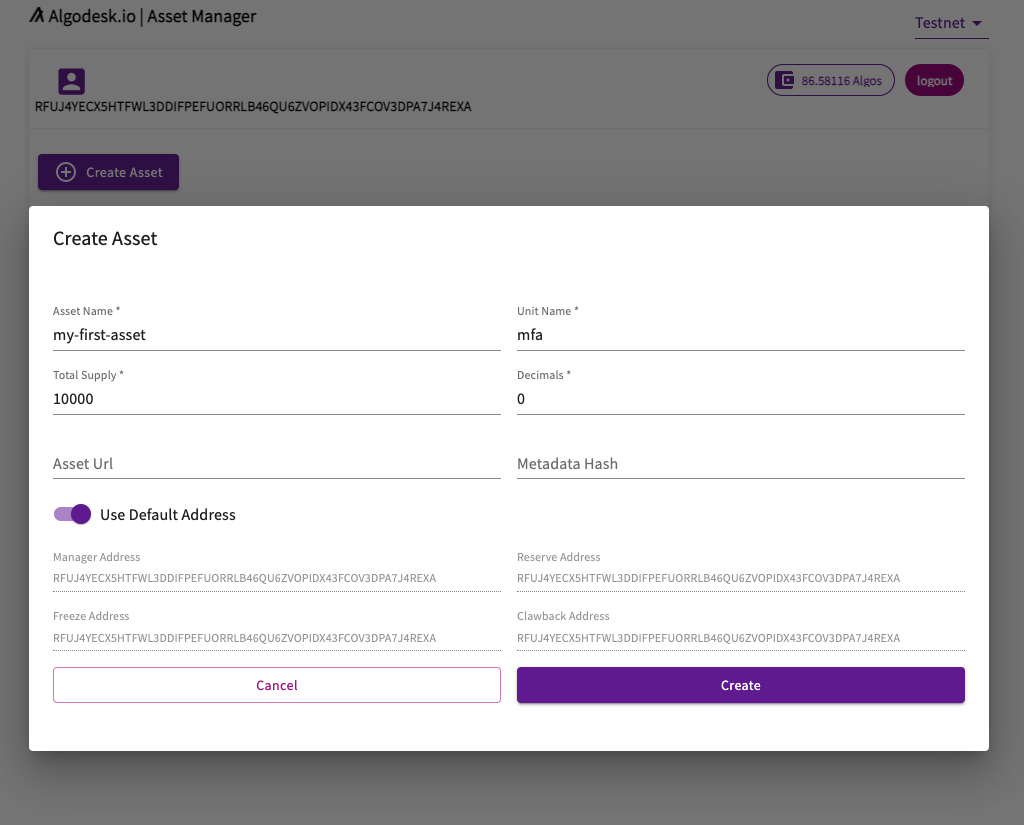
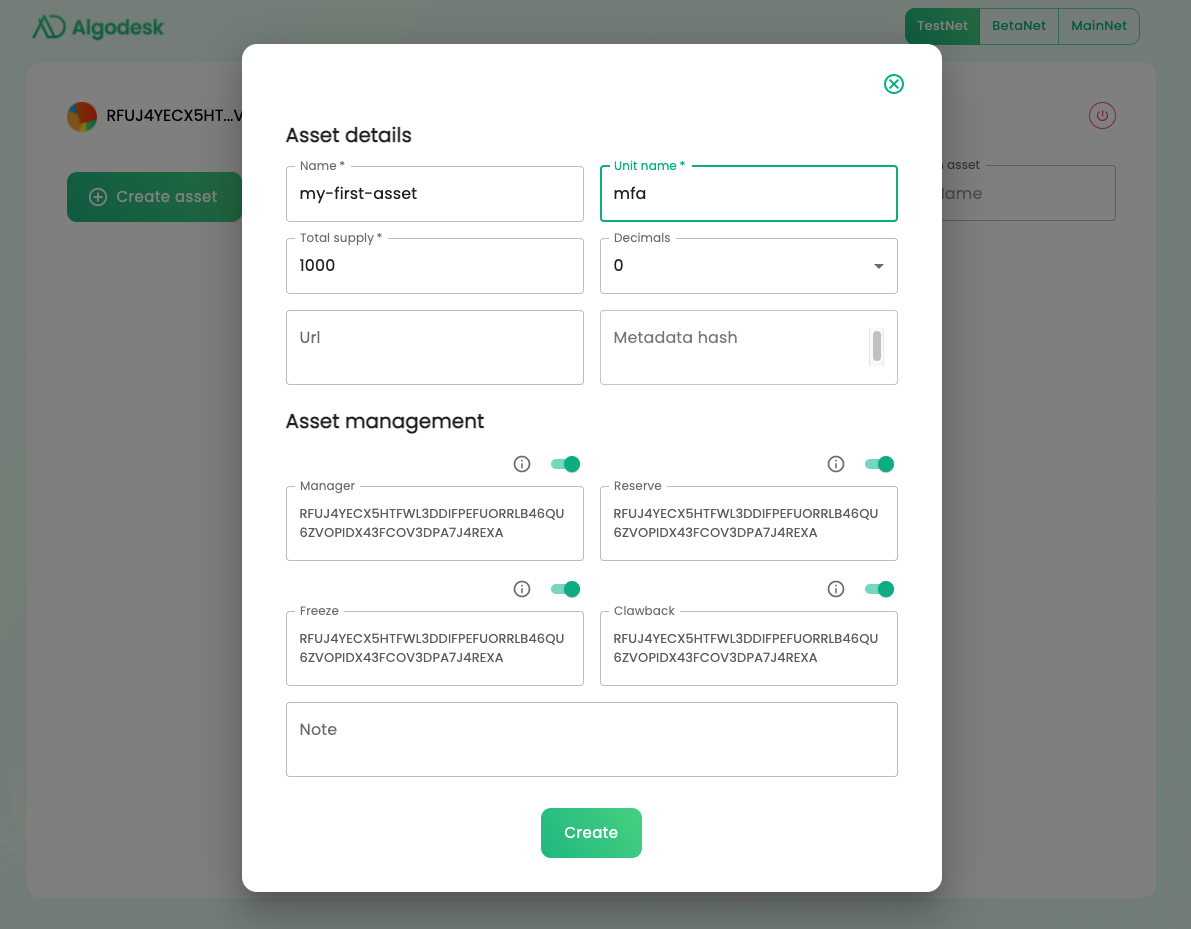
Many updates
* dispenser now sends 10 Algos instead of 100
* algoexplorer.io replaced by PureStake API because algoexplorer.io
is deprecating some endpoints used in documentation
* use the new terminology "smart signatures" instead of "stateless smart contracts"
* add information about smart contracts
* recommend AlgoDEA on PyCharm
* fix links to new documentation

diff --git a/step5.teal.py b/step5.teal.py
@@ -5,7 +5,7 @@ from pyteal import *
 # Address of the seller of the asset
 seller = Addr("4O6BRAPVLX5ID23AZWV33TICD35TI6JWOHXVLPGO4VRJATO6MZZQRKC7RI")
 asset_id = 14035004  # ID of the official buildweb3 asset
-asset_price = 42000000  # price of 1 asset = 42 Algos
+asset_price = 4200000  # price of 1 asset = 4.2 Algos
 
 
 def smart_contract(tmpl_seller=seller,

diff --git a/README.md b/README.md
@@ -10,7 +10,7 @@ In this homework, you will learn:
 1. how to create your first Algorand accounts.
 2. how to create and distribute your first asset or token on the Algorand blockchain.
 3. how to trade your token "atomically" without any third party.
-4. how to get the official "buildweb3" asset for just 42 Algos, by using your first stateless smart contract.
+4. how to get the official "buildweb3" asset for just 4.2 Algos, by using your first smart signature (aka stateless smart contract).
 
 The first two goals require *no programming knowledge* and can be done 100% online without installing anything on your computer!
 If you are interested, just skip Step 0 and do Steps 1, 2, and 3.
@@ -19,7 +19,7 @@ Sections "Background" and "Going Further" are not mandatory to complete the home
 
 *Warning*: All the homework is meant to be done on TestNet, where coins (called the Algos) are fake. When switching to MainNet, accounts store real cryptocurrency and proper security of key storage and management needs to be taken into consideration.
 
-*Note*: The answers in [form.example.md](form.example.md) would be valid answers of the homework and you can search for the various accounts and transaction IDs on the block explorer of your choice: [AlgoExplorer](https://testnet.algoexplorer.io) or [GoalSeeker](https://goalseeker.purestake.io/algorand/testnet).
+*Note*: The answers in [form.example.md](form.example.md) would be valid answers of (a slightly earlier version of) the homework and you can search for the various accounts and transaction IDs on the block explorer of your choice: [AlgoExplorer](https://testnet.algoexplorer.io) or [GoalSeeker](https://goalseeker.purestake.io/algorand/testnet). Note that this homework was recently changed and the answers in [form.example.md](form.example.md) use slightly higher amounts for each transaction.
 
 ## Step 0 - Setup
 
@@ -36,15 +36,35 @@ To access a blockchain, you also need access to an Algorand node and optionally 
 This homework will use the Algorand TestNet network.
 TestNet has the same protocol as the main Algorand network MainNet, but uses fake Algos. (The Algo is the native cryptocurrency of the Algorand blockchain.)
 
-In what follows, we give examples with the Python SDK and the [AlgoExplorer API Service](https://testnet.algoexplorer.io/api-dev/v2).
-However, you may use the SDK of your choice or the command line tools, and you may also setup a personal node and use it.
-In that case, you may skip the instructions on how to install Python and the Python SDK, and instead read [how to setup your workspace in the developer documentation](https://developer.algorand.org/docs/build-apps/setup).
+In what follows, we give examples with the Python SDK and the [free PureStake API Service](https://www.purestake.com/technology/algorand-api/).
+However, you may use the SDK of your choice or the command line tools.
+You may also use another API service or setup a personal node and use it.
+
+
+### Going further (optional)
+
+For more information about options to set up the development environment, see [Set up your development environment
+](https://developer.algorand.org/docs/get-started/devenv/).
+This tutorial is meant to be done on TestNet and not on a private network.
+Since it requires the use of an indexer, [sandbox](https://github.com/algorand/sandbox) may not be used.
+
+For more advanced development scenario, we highly recommend setting up sandbox on a private network and installing the Algorand software tools (`goal`, `tealdbg`, ...) by doing the following:
+
+1. [Installing a node](https://developer.algorand.org/docs/run-a-node/setup/install/), 
+2. [Switching to TestNet](https://developer.algorand.org/docs/run-a-node/operations/switch_networks/)
+3. And performing a [fast cathup](https://developer.algorand.org/docs/run-a-node/setup/install/#sync-node-network-using-fast-catchup).
+
+`tealdbg` in particular is very useful to debug smart contracts.
+On Windows, the best solution is to use [Ubuntu 20.04 on WSL 2](https://docs.microsoft.com/en-us/windows/wsl/install).
+
+Other API services exist apart from the PureStake API service: https://developer.algorand.org/ecosystem-projects/?tags=api-services
+Note that the [RandLabs/algoexplorer API service](https://testnet.algoexplorer.io/api-dev/v2) can also be used but it does not provide all the same endpoints. In particular, when using the new RandLabs node, confirming the transaction requires using the indexer rather than the "pending transactions" endpoint as used in the documentation.
 
 ### Step 0.1 - Install Python 3.8 and Pip
 
 *Warning*: Python 2 will not work.
 
-Python 3.8.0 (or later) with Pip must be installed on your computer. You will also need a code editor, such as Visual Studio Code (https://code.visualstudio.com).
+Python 3.8.0 (or later) with Pip must be installed on your computer. 
 
 * On Windows 7/8/10: (warning: Windows XP is not supported)
     1. Download the Python installer on https://www.python.org/downloads/windows/
@@ -78,6 +98,27 @@ Troubleshooting:
 * If you are using Windows and get an error, replace `python3` by `python` everywhere.
 * If you still get an error, check that you added python in the PATH when installing it (see above). If not, uninstall and re-install Python.
 
+### Step 0.3 - Get a PureStake API Key
+
+Visit https://developer.purestake.io/ to sign up for free and get a PureStake API Key to access the PureStake API service.
+
+*Note*: Do not publish anywhere your PureStake API. Anytime you post publicly your code, remove your API key from the code. You may consider using environment variables to store it.
+
+### Step 0.4 - Install an IDE / an Editor
+
+You will also need a code editor, such as [Visual Studio Code](https://code.visualstudio.com) or [PyCharm](https://www.jetbrains.com/pycharm/).
+
+(Optional) If you plan to develop more advanced projects after this homework, we recommend using PyCharm with the [AlgoDEA extension](https://algodea-docs.bloxbean.com/).
+After installing the AlgoDEA extension in PyCharm:
+
+1. Open PyCharm
+2. Create a new Algorand project (instead of "Pure Python" project which is the default)
+3. Set up the node by clicking on the "Algorand Explorer" on the top right and then fill in the information as shown below:
+    ![Screenshot of AlgoDEA PureStake node configuration](img/AlgoDEAPureStakeNodeConfiguration.png)
+4. Click on the button "Fetch Network Info". "Genesis Hash" and "Genesis ID" should be automatically populated
+
+Troubleshooting: If you don't see the "Algorand Explorer" tab, check you created a new Algorand project and not a Pure Python project.
+
 ## Step 1 - Create Two Algorand Accounts and Fund Them
 
 ### Background
@@ -87,7 +128,8 @@ Basic accounts on Algorand are defined by an *address* (or public key) and a *pr
 
 The address is completely public and should be given to anybody who needs to send Algos or other assets/tokens to you for example.
 
-The *private key* is used to authorize transactions from your account by *signing* them. The private key is usually represented by a 25-word mnemonic. It should be kept secret.
+The *private key* is used to authorize transactions from your account by *signing* them. 
+The private key is usually represented by a 25-word mnemonic. It should be kept secret.
 
 ### Step 1.1 - Create Two Algorand Accounts
 
@@ -116,15 +158,19 @@ Private key mnemonic: six citizen candy robot jacket regular install tell end ov
 Account address: ZBXIRU3KVUTZMFC2MNDHFZ5RZMEH6FYGYZ32B6BEJHQNKWTUJUBB72WL4Y
 ```
 
+*Important:* Never use this private key mnemonic to hold real Algos (i.e., on MainNet). Only use it for "fake Algos" on TestNet.
+
 *Note:* Using My Algo Wallet will enable you to do all Steps 1 to 3. But if you want to be able to do the full homework, you will need to know how to use the Python SDK (or another SDK). In that case, we recommend you generate one account with the SDK and one with My Algo Wallet.
 
-*Note:* Even if you created the account using the SDK, you can then import the mnemonic inside My Algo Wallet, so that you can directly use My Algo Wallets to send transactions. After choosing a password, just click on "Add Wallet" and then "Recover Wallet" below "Mnemonic Phrase", and follow the instructions. 
+*Note:* Even if you created the account using the SDK, you can then import the mnemonic inside My Algo Wallet, so that you can directly use My Algo Wallet to send transactions. After choosing a password, just click on "Add Wallet" and then "Import Wallet", and follow the instructions. 
 
-*Note:* [The developer documentation](https://developer.algorand.org/docs/build-apps/hello_world/#generate-a-publicprivate-key-pair) shows many other ways of creating accounts.
+*Note:* You can further import your account in other wallets, such as the wallet in [AlgoDEA](https://algodea-docs.bloxbean.com/account-management) (if you are using AlgoDEA), the [official Algorand Wallet](https://algorandwallet.com/) (after setting it to TestNet) or [AlgoSigner](https://www.purestake.com/technology/algosigner/) (the equivalent of MetaMask for Algorand).
+
+*Note:* [The developer documentation](https://developer.algorand.org/docs/get-details/accounts/create/) shows many other ways of creating accounts.
 
 ### Step 1.1 - Fund the Two Accounts
 
-**Task:** Add 100 Algos to each of the accounts. The Algo is the native cryptocurrency of the Algorand blockchain.
+**Task:** Add 10 Algos to each of the accounts. The Algo is the native cryptocurrency of the Algorand blockchain.
 
 In order to use your accounts, you need to add Algos to them. On MainNet, you would need to buy them for example on an exchange.
 However, on TestNet, you can just use the [dispenser](https://bank.testnet.algorand.network).
@@ -134,11 +180,11 @@ Refresh the page between each account.
 
 ### Step 1.2 - Check the Balance of your Accounts
 
-**Task:** Check that the two accounts now have at least 100 Algos.
+**Task:** Check that the two accounts now have at least 10 Algos.
 
 To check the balance of an account, go to a block explorer (e.g., [AlgoExplorer](https://testnet.algoexplorer.io) or [GoalSeeker](https://goalseeker.purestake.io/algorand/testnet)), search for your address and look at the balance.
 
-Each account should now have 100 Algos.
+Each account should now have 10 Algos.
 If this is not the case, go back to Step 1.1.
 
 Remark that it takes less than 5s for the funding transaction to be committed to the blockchain and the balance to be updated.
@@ -167,13 +213,12 @@ See screenshot below.
 ![Screenshot sending transaction with My Algo Wallet](img/step2MyAlgo.png)
 
 If you are a developer, we recommend you send at least one transaction using the Python SDK by following the [tutorial "Your First Transaction"](https://developer.algorand.org/docs/build-apps/hello_world/#connect-your-client) starting at step "Connect your client". 
-To use the [AlgoExplorer](https://testnet.algoexplorer.io/api-dev/v2) node, define `algod_client` as:
+To use the PureStake API service, define `algod_client` as:
 ```py
 algod_client = algod.AlgodClient(
     algod_token="",
-    algod_address="https://api.testnet.algoexplorer.io",
-    # see https://github.com/algorand/py-algorand-sdk/issues/169
-    headers={"User-Agent": "DoYouLoveMe?"}
+    algod_address="https://testnet-algorand.api.purestake.io/ps2",
+    headers={"X-API-Key": "YOUR PURESTAKE API KEY"}
 )
 ```
 You also need to replace the amount and the note by the correct value.
@@ -198,15 +243,14 @@ Beyond adding a memo to a transaction, notes have many use cases. Here are some 
 #### Algorand Indexer v2 and Searching for Notes
 
 The [Algorand Indexer v2](https://developer.algorand.org/docs/features/indexer) allows to make advanced queries on the blockchain, such as searching for transactions, accounts, assets, ... In particular, it allows to search for all transactions with a note with a certain prefix.
-The developer website contains a [tutorial about it](https://developer.algorand.org/tutorials/v2-read-and-write-transaction-note-field-python).
+The developer website contains a [tutorial about it](https://developer.algorand.org/tutorials/v2-read-and-write-transaction-note-field-python/).
 
-If you do not want to install the indexer, you can use the public AlgoExplorer public indexer:
+If you do not want to install the indexer, you can use the public PureStake API service:
 ```python
 myindexer = indexer.IndexerClient(
     indexer_token="",
-    indexer_address="https://api.testnet.algoexplorer.io/idx2",
-    # see https://github.com/algorand/py-algorand-sdk/issues/169
-    headers={'User-Agent': 'DoYouLoveMe?'}
+    indexer_address="https://testnet-algorand.api.purestake.io/idx2",
+    headers={"X-API-Key": "YOUR PURESTAKE API KEY"}
 )
 ```
 
@@ -224,10 +268,10 @@ ASAs can be used to represent stablecoins, loyalty points, system credits, in-ga
 
 **Task:** Create your own asset on Algorand from account A. The creator account must be account A. The total supply (number of tokens) should be at least 10. Choose your preferred asset name and unit name.
 
-Creating an ASA takes less than 1min and can be done 100% online using [AlgoDesk](https://algodesk.io):
+Creating an ASA takes less than 1min and can be done 100% online using [MyAlgoWallet Asset Manager](https://asset.myalgo.com/) or [AlgoDesk](https://algodesk.io):
 
-1. Go to https://asa.algodesk.io
-2. Replace the default mnemonic by the mnemonic for your account A. (Be careful not to add any extra space or line break at the end.)
+1. Go to https://app.algodesk.io/
+2. Connect to the appropriate wallet on TestNet
 3. Click on "Create Asset"
 4. Choose your preferred asset name, unit name, and total supply (anything above 10 for this homework). See screenshot below.
 ![Screenshot of AlgoDesk](img/step3AlgoDeskAssetCreation.png)
@@ -259,7 +303,7 @@ Now that account B opted in the asset, you can send 1 asset unit from account A 
 
 If you are using My Algo Wallet, just go the account A wallet, click on "All" at the top right, then click on the new asset, and click on "Send" to create a transaction of 1 asset from A to B.
 
-You can also use https://asa.algodesk.io by clicking on the three dots at the top right of the asset box and on "Send Assets". See screenshot below:
+You can also use https://app.algodesk.io by clicking on the three dots at the top right of the asset box and on "Send Assets". See screenshot below:
 ![Screen for sending asset from AlgoDesk](img/step3AlgoDeskAssetSending.png)
 
 If you are a developer however, we recommend that you send the asset transfer transaction using the Python SDK. See the [developer documentation](https://developer.algorand.org/docs/features/asa/#transferring-an-asset) or the tutorial [Working with ASA using Python](https://developer.algorand.org/tutorials/asa-python).
@@ -289,12 +333,12 @@ Atomic transfers allow to group two transactions (transfer of asset from A to B,
 * either both transactions are successful: A gets its Algos and B gets its asset;
 * or both transactions fail: A keeps it asset and B keeps its Algos.
 
-**Task:** Make an atomic transfer where account B sends 12 Algos to account A and account A send 1 asset to account B. Report the transaction ID of the first transaction of the atomic transfer on [form.md](form.md)
+**Task:** Make an atomic transfer where account B sends 1.2 Algos to account A and account A send 1 asset to account B. Report the transaction ID of the first transaction of the atomic transfer on [form.md](form.md)
 
 Follow the [tutorial on the developer documentation](https://developer.algorand.org/docs/features/atomic_transfers).
 Concretely, your Python script needs to:
 
-1. Create a payment transaction of 12 Algos from B to A (like in Step 2). Do not sign it yet.
+1. Create a payment transaction of 1.2 Algos from B to A (like in Step 2). Do not sign it yet.
 2. Create an asset transfer of 1 asset from A to B (like in Step 3.3). Do not sign it yet.
 3. Group the two transactions together. Note that this modifies the transactions to ensure that one cannot be committed without the other. See [the developer documentation](https://developer.algorand.org/docs/features/atomic_transfers/#group-transactions).
 4. Sign the first transaction using the private key of account B (like in Step 2).
@@ -315,12 +359,12 @@ If you do not see the above, it means you sent two independent transactions inst
 
 While atomic transfers are very useful to trade assets, they require each account involved in the trade to sign the transactions.
 In some cases, you may want to allow anybody to trade assets with you without having to sign transactions.
-Layer-1 stateless smart contracts allow to make an account automatically approve transactions that follow some criteria.
+Smart signatures allow to make an account automatically approve transactions that follow some criteria.
 
-To show the power of layer-1 smart contracts, we created an exclusive asset for the class "buildweb3" and provided a layer-1 smart contract that will allow you to receive 1 unit of the asset for just 42 Algos!
-The smart contract approves transactions of 1 unit of the asset if it is in a group of 2 transactions (aka atomic transfer) where:
-1. the first transaction sends 42 Algos to the smart contract (this transaction is signed by your account),
-2. the second transaction sends 1 unit of the asset "buildweb3" from the smart contract (this transaction is approved by the smart contract rather than being signed).
+To show the power of smart signatures, we created an exclusive asset for the class "buildweb3" and provided a smart signature that will allow you to receive 1 unit of the asset for just 4.2 Algos!
+The smart signature approves transactions of 1 unit of the asset if it is in a group of 2 transactions (aka atomic transfer) where:
+1. the first transaction sends 4.2 Algos to the smart signature account (this transaction is signed by your account),
+2. the second transaction sends 1 unit of the asset "buildweb3" from the smart signature account (this transaction is approved by the smart signature rather than being signed).
 
 ### Step 5.1 - Opt-in to the Exclusive Asset "buildweb3"
 
@@ -330,9 +374,9 @@ Remember that opt-in transactions were covered in Step 3.3.
 
 ### Step 5.2 - Receive 1 "buildweb3" Asset
 
-**Task:** Make an atomic transfer of 42 Algos from account A to `4O6BRAPVLX5ID23AZWV33TICD35TI6JWOHXVLPGO4VRJATO6MZZQRKC7RI` and of 1 "buildweb3" asset (ID 14035004) from `4O6BRAPVLX5ID23AZWV33TICD35TI6JWOHXVLPGO4VRJATO6MZZQRKC7RI` to account A, where the second transaction is signed using the [signed smart contract (aka delegated logic sig)](step5.lsig).
+**Task:** Make an atomic transfer of 4.2 Algos from account A to `4O6BRAPVLX5ID23AZWV33TICD35TI6JWOHXVLPGO4VRJATO6MZZQRKC7RI` and of 1 "buildweb3" asset (ID 14035004) from `4O6BRAPVLX5ID23AZWV33TICD35TI6JWOHXVLPGO4VRJATO6MZZQRKC7RI` to account A, where the second transaction is signed using the [signed smart signature (aka delegated logic sig)](step5.lsig).
 
-This task is similar to Step 4, except that the second transaction is signed using a delegated logic sig instead of a normal signature.
+This task is similar to Step 4, except that the second transaction is signed using a delegated logic sig / smart signature instead of a normal signature.
 Concretely, assume `txn2` is the second transaction of your atomic transfer
 Instead of signing it with `stxn2 = txn2.sign(private_key)`, you do the following:
 ```py
@@ -383,23 +427,23 @@ This concludes the homework! :fireworks:
 
 ### Going Further
 
-#### Smart Contract Accounts vs Delegated Logic Sig
+#### Contract Accounts vs Delegated Logic Sig
 
-The stateless smart contract in Step 5 is used as a delegated logic sig: it allows a normal account to delegate some abilities to anyone. 
+The smart signature in Step 5 is used as a delegated logic sig: it allows a normal account to delegate some abilities to anyone. 
 Here the ability is to send 1 unit of asset in an atomic transfer where the first transaction pays 42 Algos.
 Anybody knowing the private key of the underlying account can sign arbitrary transactions without any restriction.
-A delegated logic sig is essentially a compiled smart contract signed by the private key of the underlying account.
+A delegated logic sig is essentially a compiled smart signature signed by the private key of the underlying account.
 
-Algorand also supports more classical smart contract accounts.
-Smart contract accounts are accounts that are only controlled by a smart contract.
-All transactions must be approved by the smart contract and there is no associated private key.
+Algorand also supports more classical smart signature contract accounts.
+Smart signature contract accounts are accounts that are only controlled by a smart signature.
+All transactions must be approved by the smart signature and there is no associated private key.
 
-See [the developer documentation](https://developer.algorand.org/docs/features/asc1/stateless/modes) for details.
+See [the developer documentation](https://developer.algorand.org/docs/get-details/dapps/smart-contracts/smartsigs/modes/) for details.
 
-#### Explanation on How the Smart Contract Works
+#### Explanation on How the Smart Signature Works
 
-The actual smart contract is [step5.teal](step5.teal).
-It was generated using [PyTeal](https://github.com/algorand/pyteal) that simplifies the writing of TEAL scripts, the language of layer-1 smart contracts on Algorand.
+The actual smart signature is [step5.teal](step5.teal).
+It was generated using [PyTeal](https://github.com/algorand/pyteal) that simplifies the writing of TEAL scripts, the language of smart contracts and smart signatures on Algorand.
 In other words, [step5.teal](step5.teal) is the output of [step5.teal.py](step5.teal.py).
 
 Concretely, to generate `step5.lsig`, the secret key of  `4O6BRAPVLX5ID23AZWV33TICD35TI6JWOHXVLPGO4VRJATO6MZZQRKC7RI` was added to `kmd` using `goal account import`, and then the following commands were run:
@@ -409,27 +453,31 @@ goal clerk compile -a 4O6BRAPVLX5ID23AZWV33TICD35TI6JWOHXVLPGO4VRJATO6MZZQRKC7RI
 ```
 This assumes that PyTeal is installed via `python3 -m pip pyteal` and that the [Algorand Command Line Interface Tools](https://developer.algorand.org/docs/build-apps/setup/#command-line-interface-cli-tools) were installed.
 
-#### Stateful Smart Contracts
+#### Smart Contracts
 
-The smart contracts described previously are used to approve or reject transactions.
+The smart signatures described previously are used to approve or reject transactions.
 They cannot store any variables / state on the blockchain.
 
-Algorand also has stateful smart contracts.
-See [the developer documentation](https://developer.algorand.org/docs/features/asc1/stateful/) for details.
+Algorand also has smart contracts.
+See [the developer documentation](https://developer.algorand.org/docs/get-details/dapps/smart-contracts/apps/) for details.
 The developer websites contain several examples of stateful smart contracts on Algorand:
 * [Voting dApp](https://developer.algorand.org/solutions/example-permissioned-voting-stateful-smart-contract-application/).
 * [Crowdfunding smart contract](https://developer.algorand.org/solutions/example-crowdfunding-stateful-smart-contract-application/) and its [associated frontend](https://developer.algorand.org/solutions/creating-crowdfunding-application-algorand-blockchain/).
 
+Most dApps actually now use smart contracts rather than smart signatures.
+Still smart signatures are useful in some specific use cases like the above simple automated trading (a smart contract would have been slightly more complex) and when very complex operations need to be performed (like slow cryptographic operations).
+
 #### Other Tools
 
 Many tools have been developed by the community to facilitate development over Algorand. 
-The developer website contains [a list of them](https://developer.algorand.org/docs/community).
+The developer website contains [a list of them](https://developer.algorand.org/ecosystem-projects/).
 Here we highlight some:
+
+* Automate development of smart contracts and assets:
+https://github.com/scale-it/algorand-builder
 * Block explorer: https://goalseeker.purestake.io, https://algoexplorer.io
 * Create your first token and smart contract without installing anything on your computer:
 https://algodesk.io
-* Interactive online tutorial: https://algorand.rockx.com
-* IDE: VSCode, IntelliJ Idea, Algorand Studio, ...
 * Free API services: https://api.algoexplorer.io,
 https://www.purestake.com/technology/algorand-api (equivalent to Infura for people from
 the Ethereum world)
@@ -437,5 +485,3 @@ the Ethereum world)
 (equivalent of MetaMask for people from the Ethereum world)
 * Write distributed applications in a JavaScript-like language: https://reach.sh (bonus:
 same code works on Ethereum)
-* Automate development of smart contracts and assets:
-https://github.com/scale-it/algorand-builder
